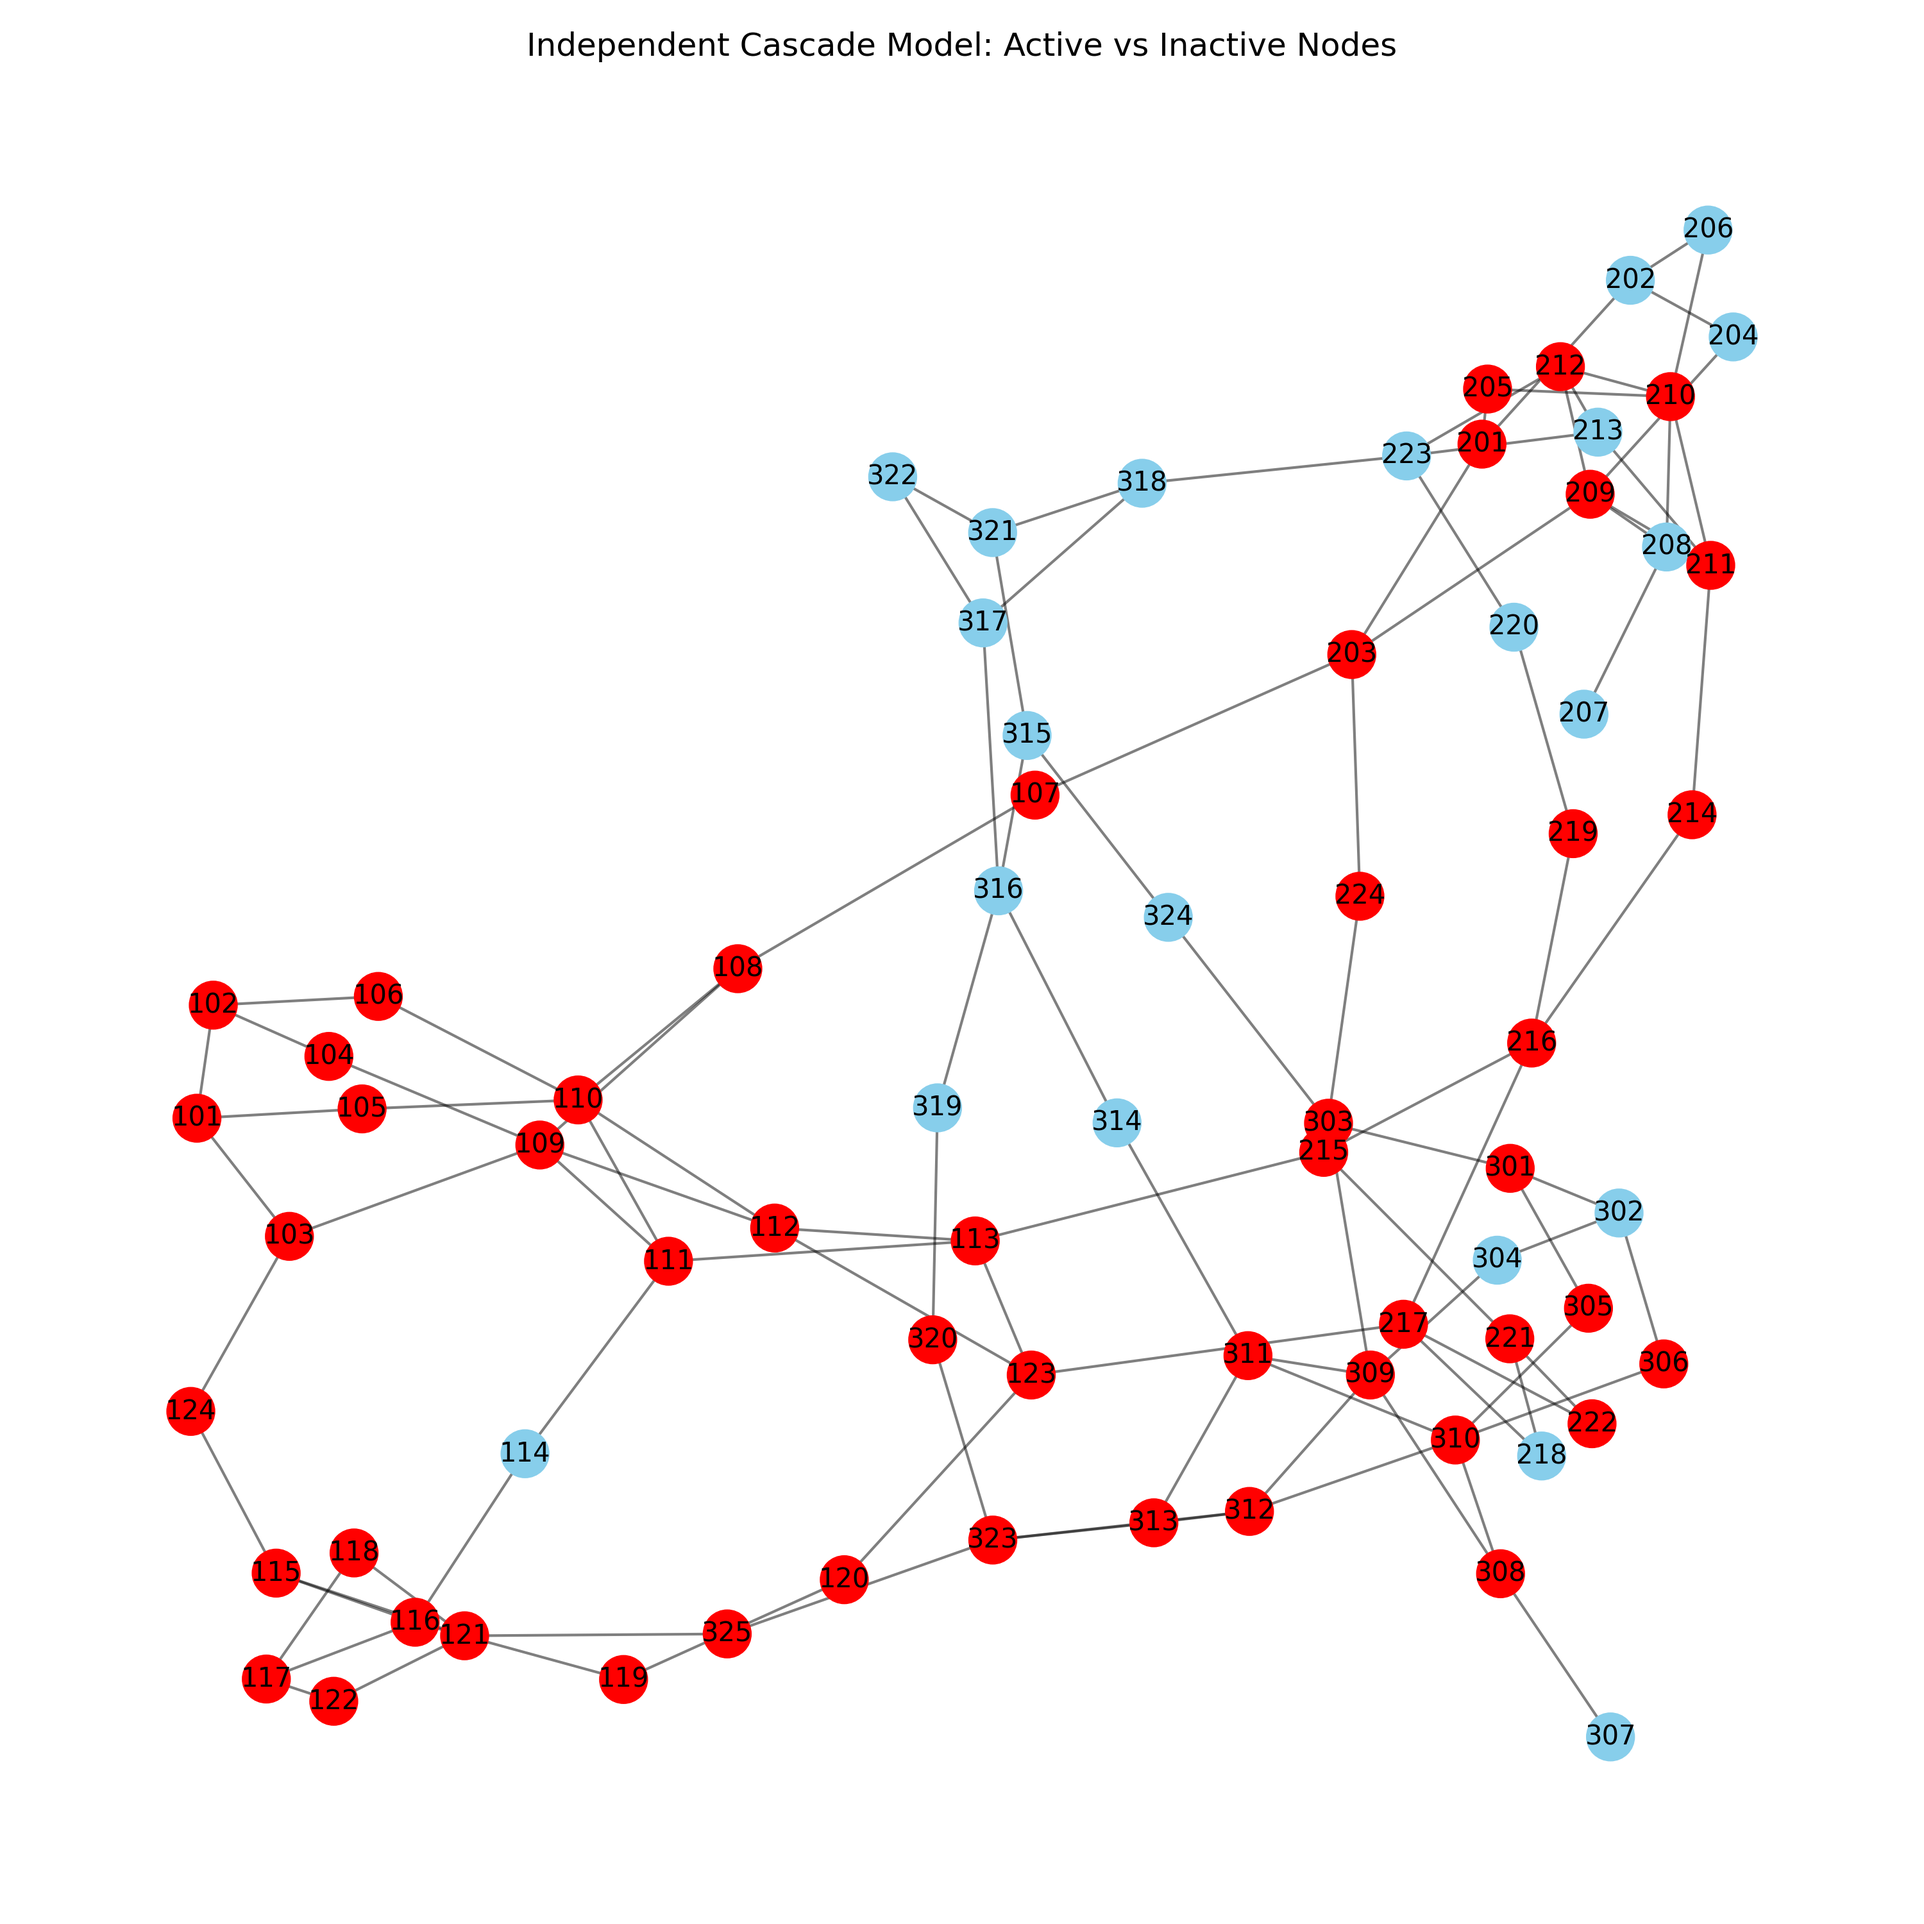
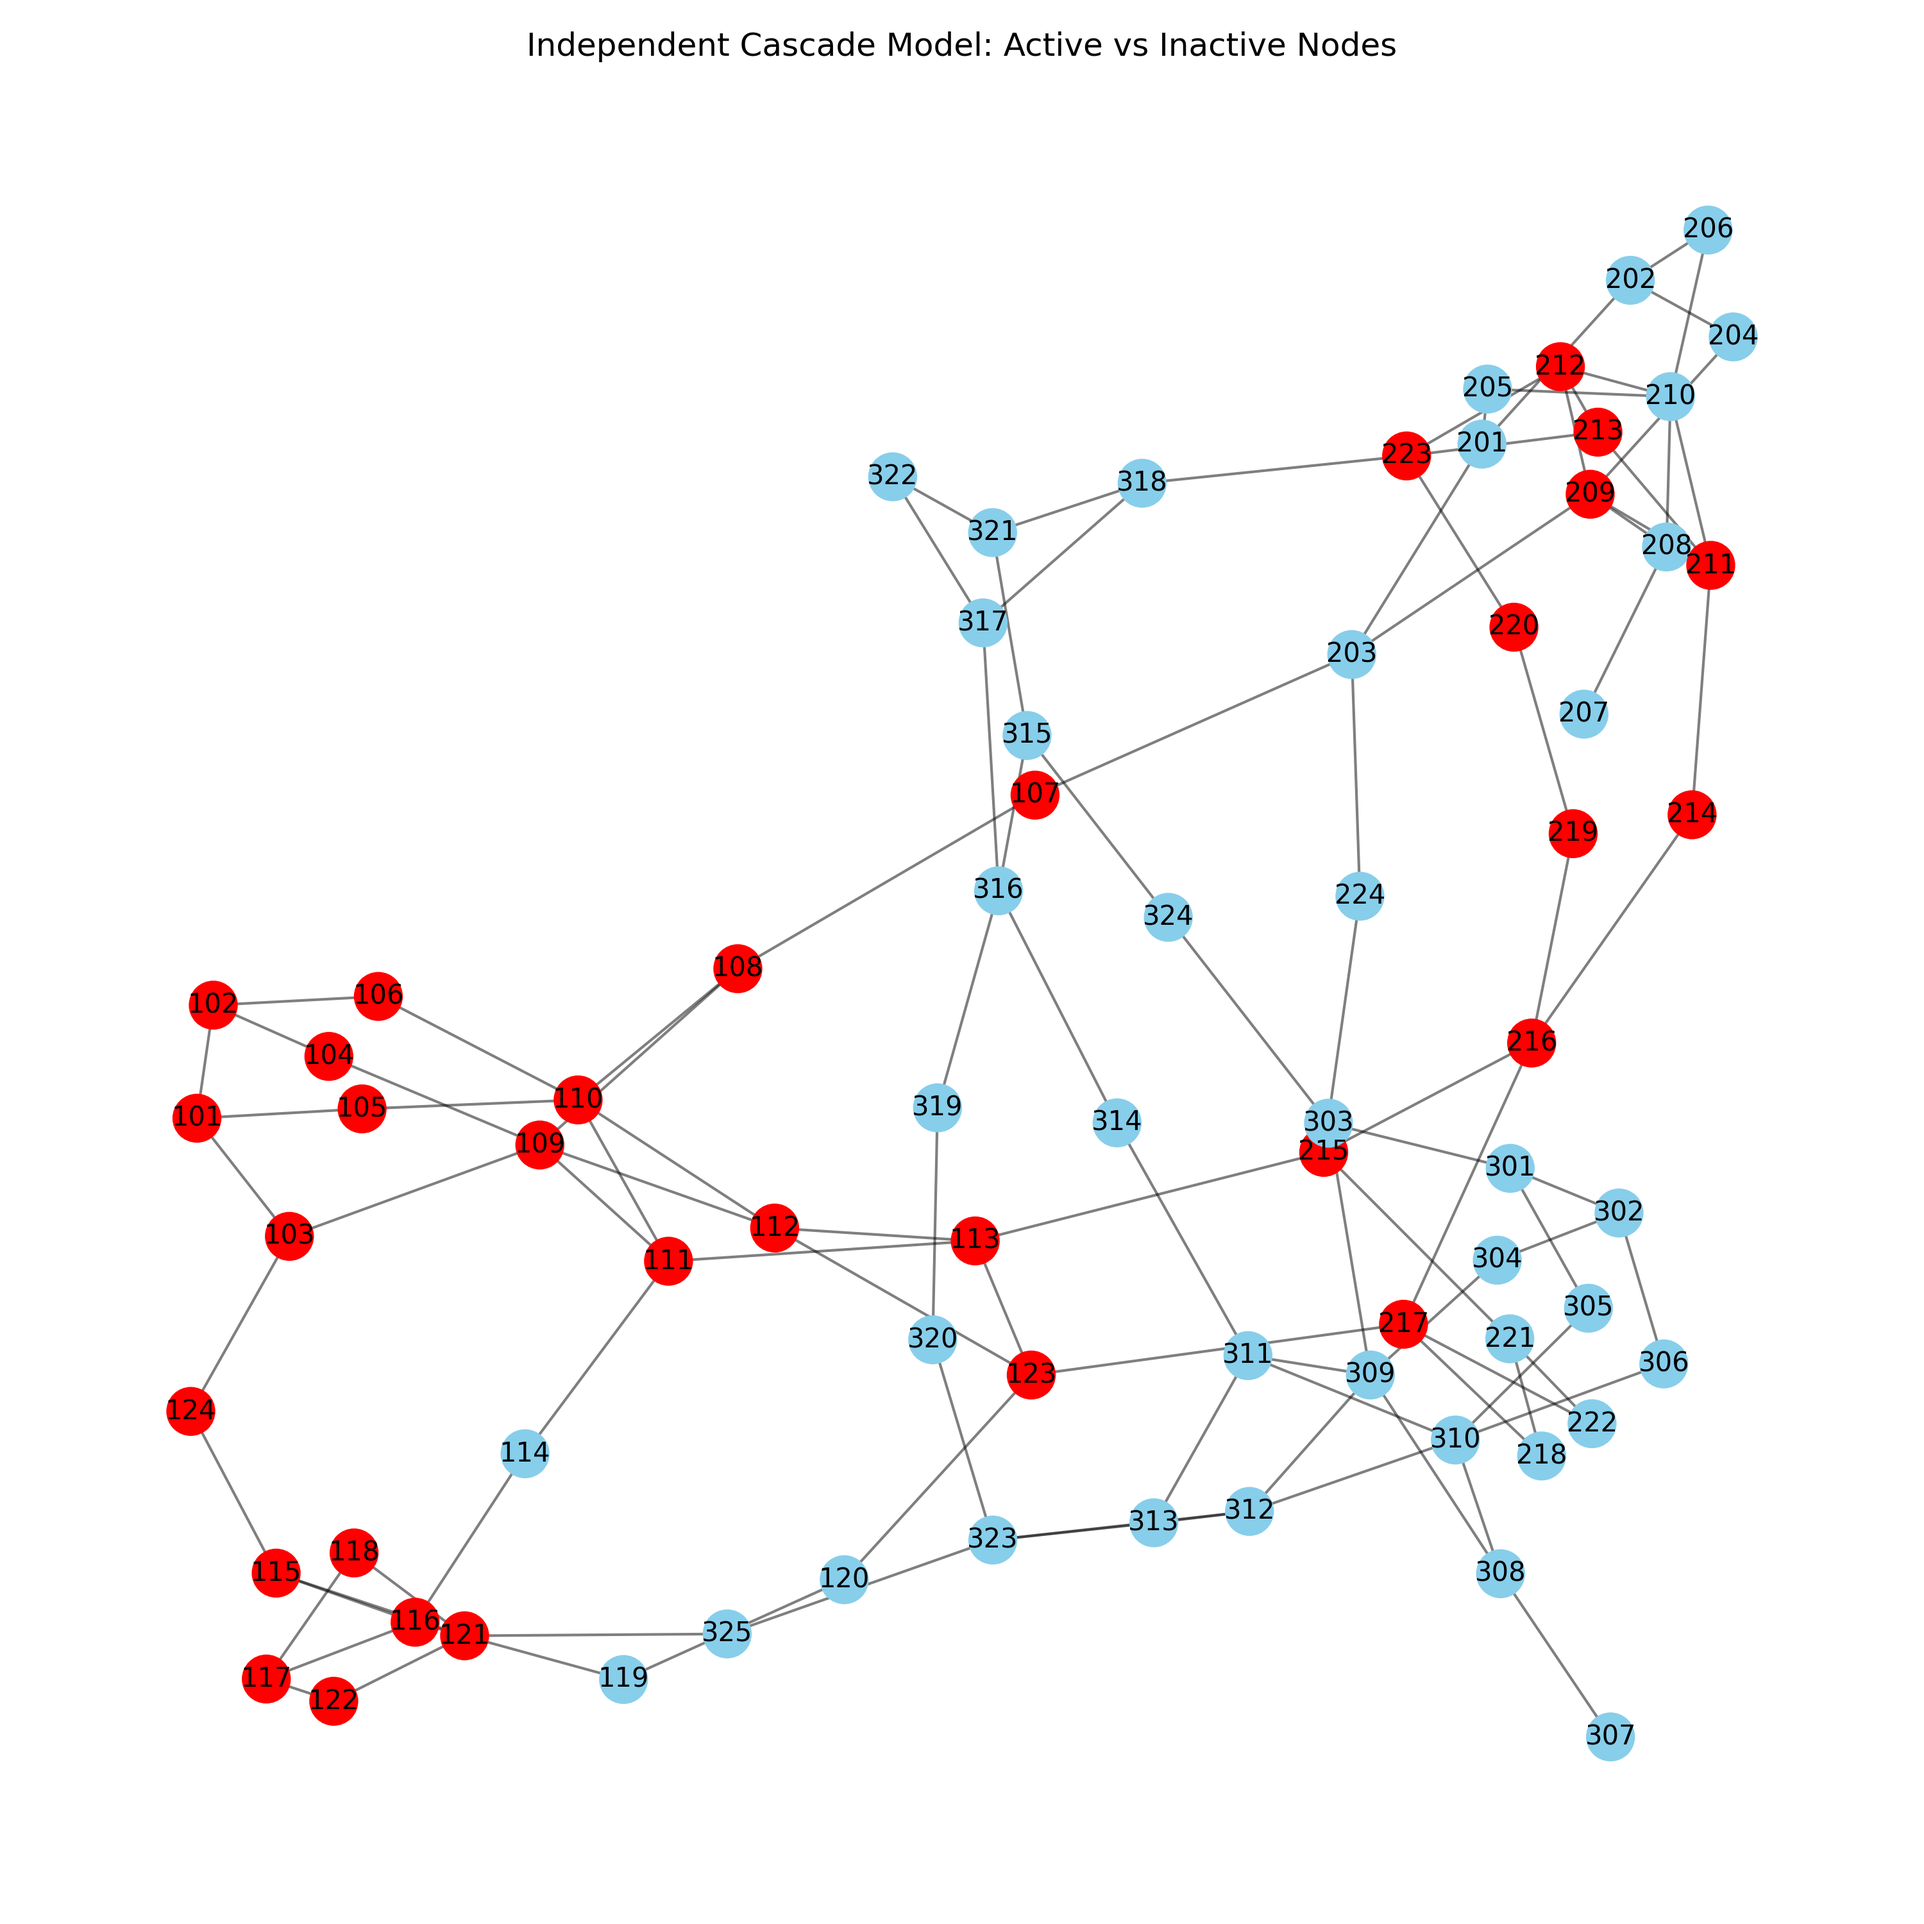
Add high degree attack strategy

diff --git a/independndent_cascade_model.py b/independndent_cascade_model.py
@@ -1,9 +1,14 @@
 import random
 import numpy as np
 import networkx as nx
+from enum import Enum
+
+class SeedSelection(Enum):
+    RANDOM = 'random'
+    HIGH_DEGREE = 'high_degree'
 
 # Function to implement the Independent Cascade Model
-def independent_cascade(G_original, alpha=0.1, seed_fraction=0.05):
+def independent_cascade(G_original, alpha=0.1, seed_fraction=0.05, seed_selection=SeedSelection.RANDOM):
     """
     Simulates the Independent Cascade Model on a directed graph.
 
@@ -23,7 +28,15 @@ def independent_cascade(G_original, alpha=0.1, seed_fraction=0.05):
     # Initialize
     nodes = list(G.nodes())
     seed_count = max(1, int(len(nodes) * seed_fraction))
-    seeds = set(random.sample(nodes, seed_count))
+
+    # === Seed selection strategies ===
+    if seed_selection == SeedSelection.HIGH_DEGREE:
+        degree_sorted = sorted(G.degree, key=lambda x: x[1], reverse=True)
+        seeds = set([node for node, _ in degree_sorted[:seed_count]])
+    elif seed_selection == SeedSelection.RANDOM:
+        seeds = set(random.sample(nodes, seed_count))
+    else:
+        raise ValueError("seed_selection must be either 'random' or 'high_degree'")
 
     # Mark seed nodes as 'active'
     for seed in seeds:

diff --git a/main.py b/main.py
@@ -1,5 +1,5 @@
 from build_power_grid_with_load import G
-from independndent_cascade_model import independent_cascade
+from independndent_cascade_model import independent_cascade, SeedSelection
 
 import networkx as nx
 import numpy as np
@@ -25,7 +25,7 @@ plt.savefig("power_grid_network.png", dpi=300)
 print("✅ Saved power_nodes_plot.png")
 
 # Run the model with default alpha and random seeds
-G_with_status, activated_nodes_with_status = independent_cascade(G, 0.5)
+G_with_status, activated_nodes_with_status = independent_cascade(G, 0.5, 0.05, SeedSelection.HIGH_DEGREE)
 
 # Return summary
 len(activated_nodes_with_status), G_with_status.number_of_nodes(), G_with_status.number_of_edges()
